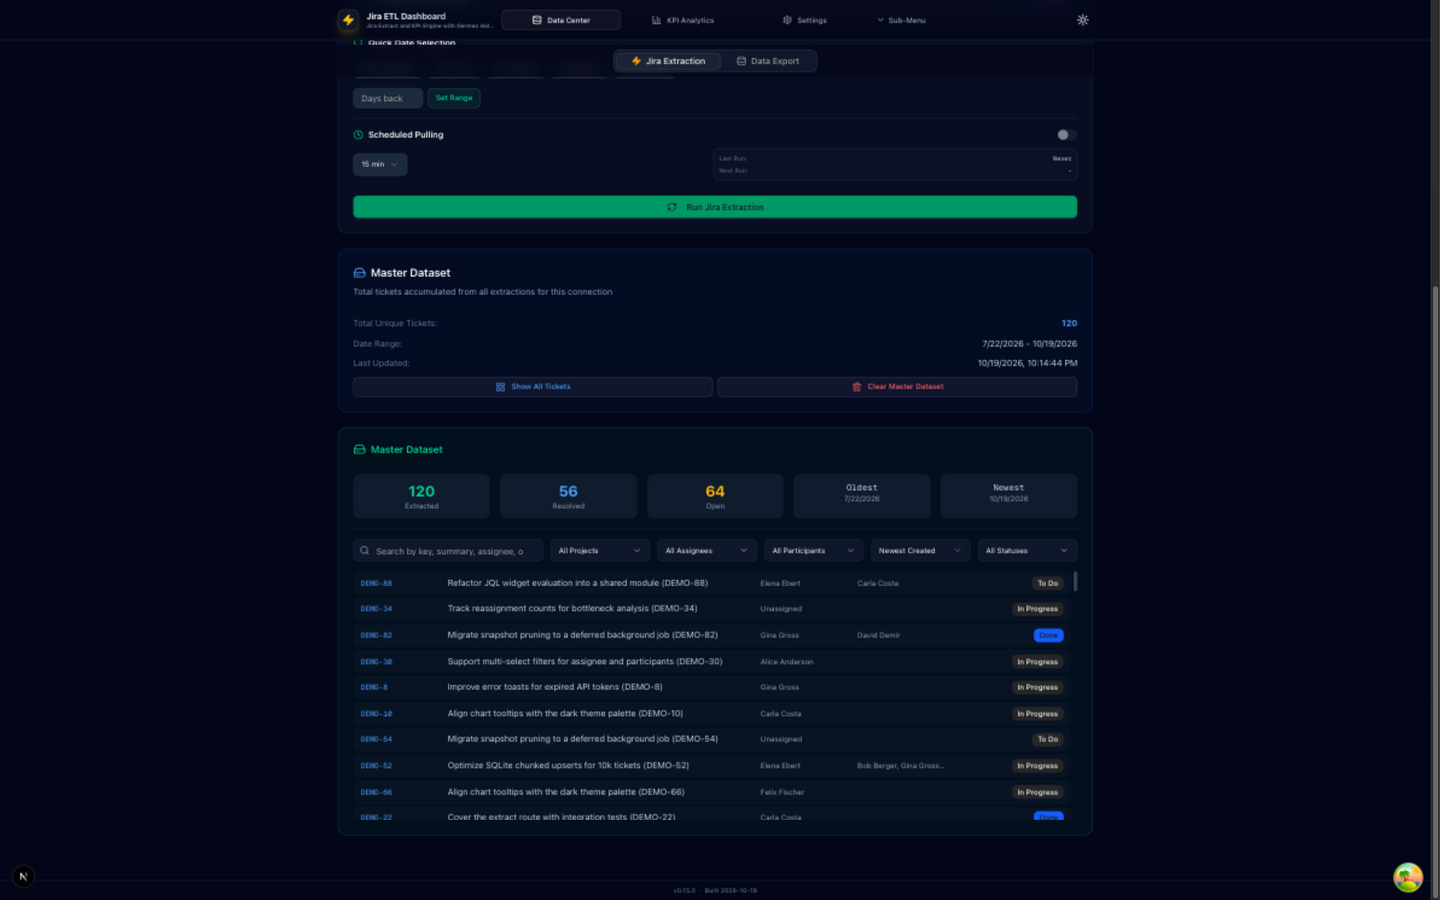
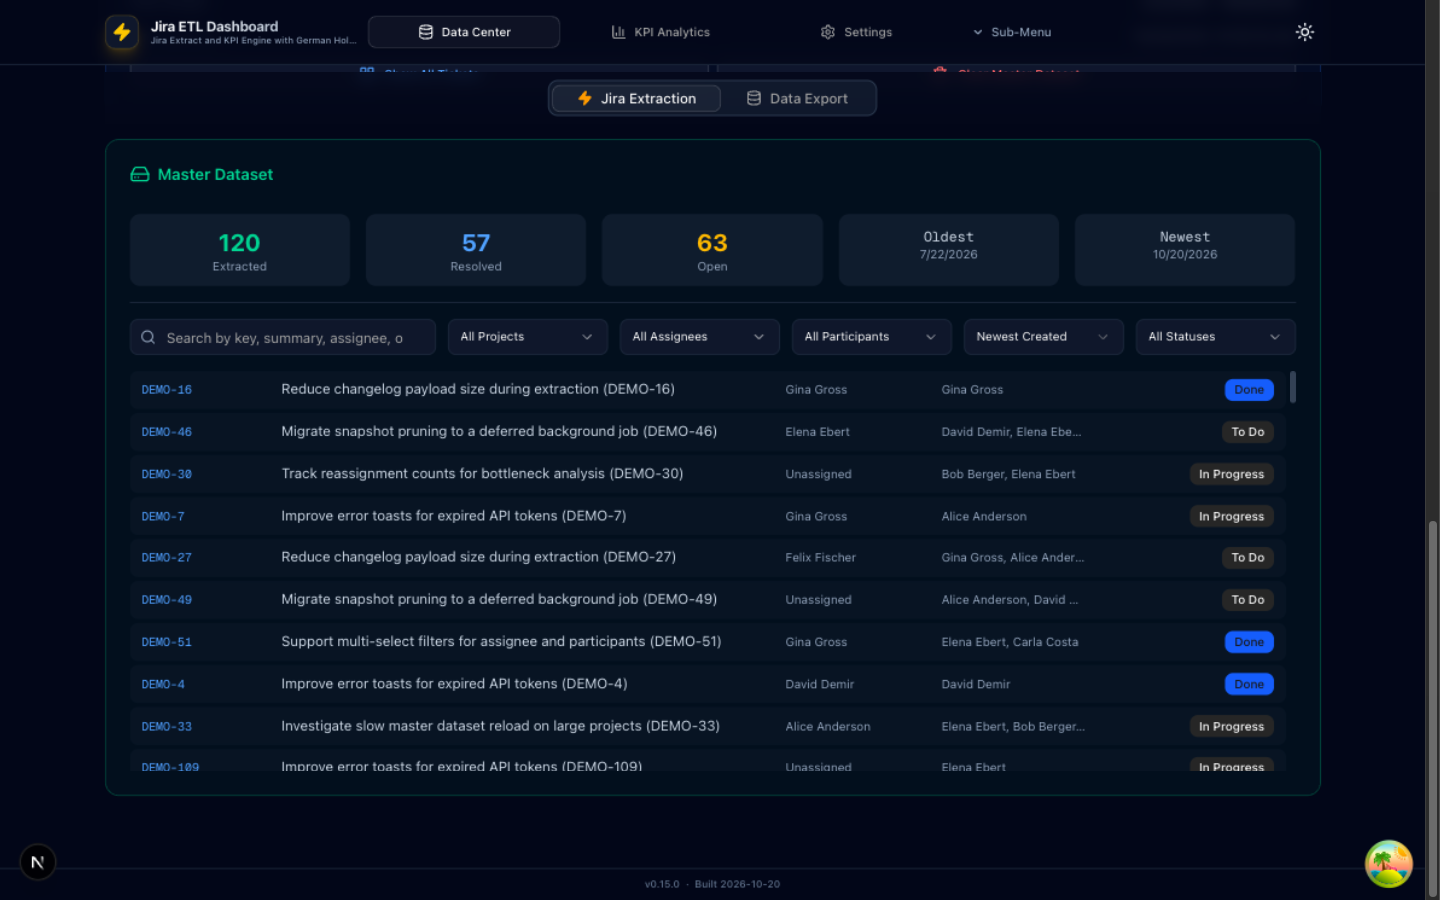
feat(demo): fill request participants on nearly every demo ticket
The participants (customfield_10032) column was empty on ~40% of demo
tickets — and the previous 0..3 name pick left a quarter of those blank
too, so the demo kept showing a sparse column. Request participants now
appear on ~95% of tickets with 1-3 names each; a handful stay empty so
the participants multi-select filter still has an empty case to exclude.
pickSome gains a min argument; labels/components keep their 0..2 spread.

Refreshes docs/screenshots/data-center.png from the new dataset
(118/120 tickets with participants).

diff --git a/src/lib/datasource/demo-data.ts b/src/lib/datasource/demo-data.ts
@@ -85,8 +85,8 @@ function pick<T>(rng: () => number, arr: readonly T[]): T {
   return arr[Math.floor(rng() * arr.length)];
 }
 
-function pickSome<T>(rng: () => number, arr: readonly T[], max: number): T[] {
-  const count = Math.floor(rng() * (max + 1));
+function pickSome<T>(rng: () => number, arr: readonly T[], min: number, max: number): T[] {
+  const count = min + Math.floor(rng() * (max - min + 1));
   const out = new Set<T>();
   while (out.size < count) out.add(pick(rng, arr));
   return Array.from(out);
@@ -154,7 +154,10 @@ export function generateDemoIssues(now: Date = new Date()): JiraIssueLike[] {
 
     const updated = new Date(histories[histories.length - 1].created);
     const resolved = done ? updated : null;
-    const hasParticipants = rng() < 0.6;
+    // Request participants (customfield_10032) are populated on nearly every
+    // ticket — the demo exists to show this column; a few stay empty so the
+    // participants multi-select filter still has an "empty" case to exclude.
+    const hasParticipants = rng() < 0.95;
     const currentStatus = path[path.length - 1];
     const statusCategory = done ? 'Done' : currentStatus === 'To Do' ? 'To Do' : 'In Progress';
 
@@ -175,10 +178,10 @@ export function generateDemoIssues(now: Date = new Date()): JiraIssueLike[] {
         customfield_10002: rng() < 0.7 ? Math.floor(rng() * 13) + 1 : null,
         customfield_10132: { value: pick(rng, TEAMS) },
         customfield_10032: hasParticipants
-          ? pickSome(rng, ASSIGNEES, 3).map(demoUser)
+          ? pickSome(rng, ASSIGNEES, 1, 3).map(demoUser)
           : [],
-        labels: pickSome(rng, LABELS, 2),
-        components: pickSome(rng, COMPONENTS, 2).map(name => ({ name })),
+        labels: pickSome(rng, LABELS, 0, 2),
+        components: pickSome(rng, COMPONENTS, 0, 2).map(name => ({ name })),
         comment: {
           comments: rng() < 0.7 ? [{
             author: demoUser(pick(rng, ASSIGNEES)),

diff --git a/src/lib/datasource/__tests__/demo.test.ts b/src/lib/datasource/__tests__/demo.test.ts
@@ -80,7 +80,9 @@ describe('generateDemoIssues', () => {
     const withParticipants = issues.filter(i => i.fields.customfield_10032.length > 0);
     const unassigned = issues.filter(i => i.fields.assignee === null);
     const withStoryPoints = issues.filter(i => typeof i.fields.customfield_10002 === 'number');
-    expect(withParticipants.length).toBeGreaterThan(issues.length * 0.3);
+    // Request participants are filled on nearly every ticket (the demo exists
+    // to showcase that column); a few stay empty for filter tests.
+    expect(withParticipants.length).toBeGreaterThan(issues.length * 0.8);
     expect(unassigned.length).toBeGreaterThan(0);
     expect(withStoryPoints.length).toBeGreaterThan(issues.length * 0.3);
   });
